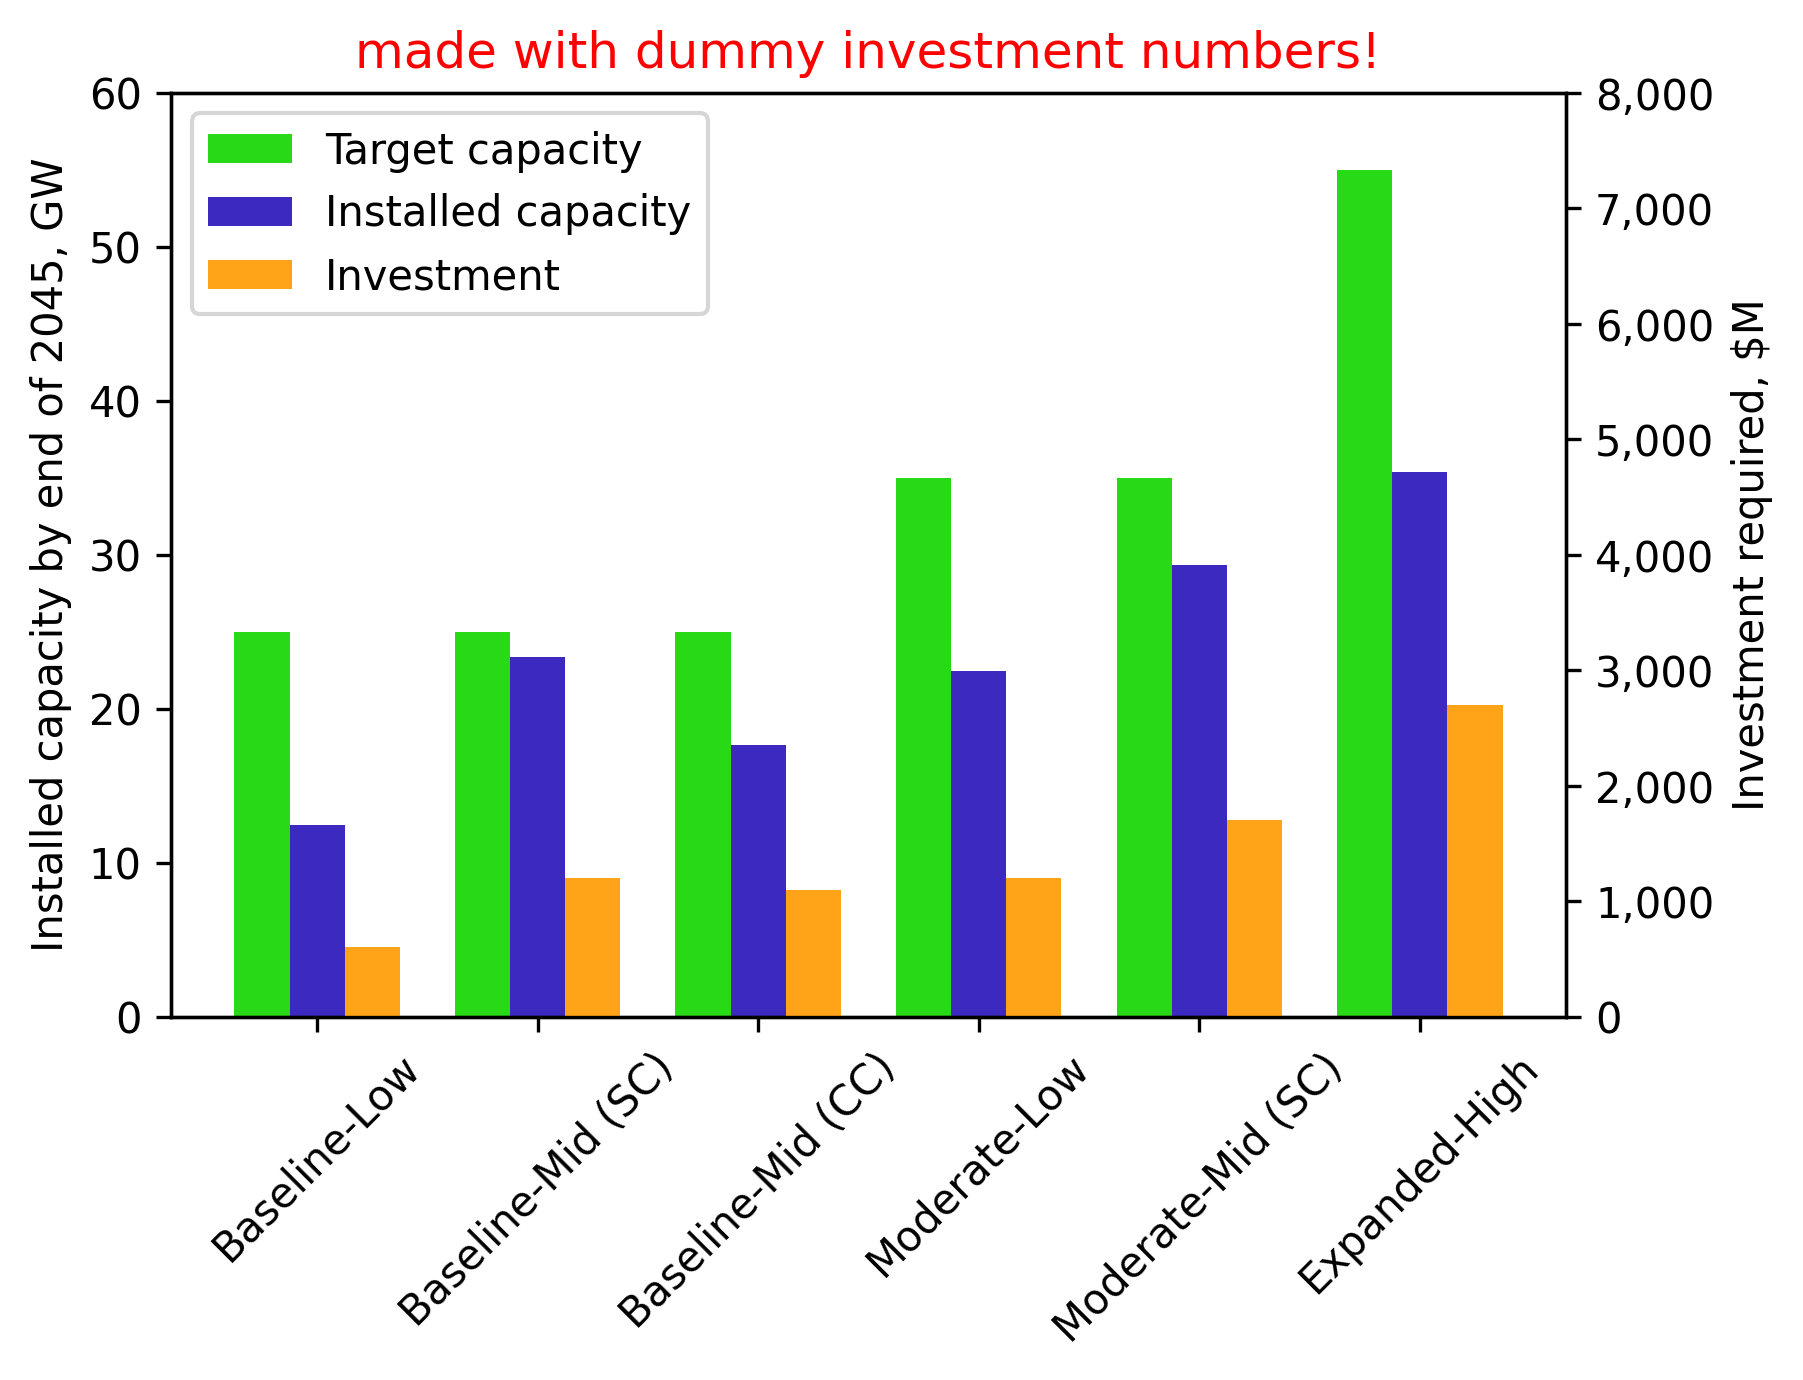
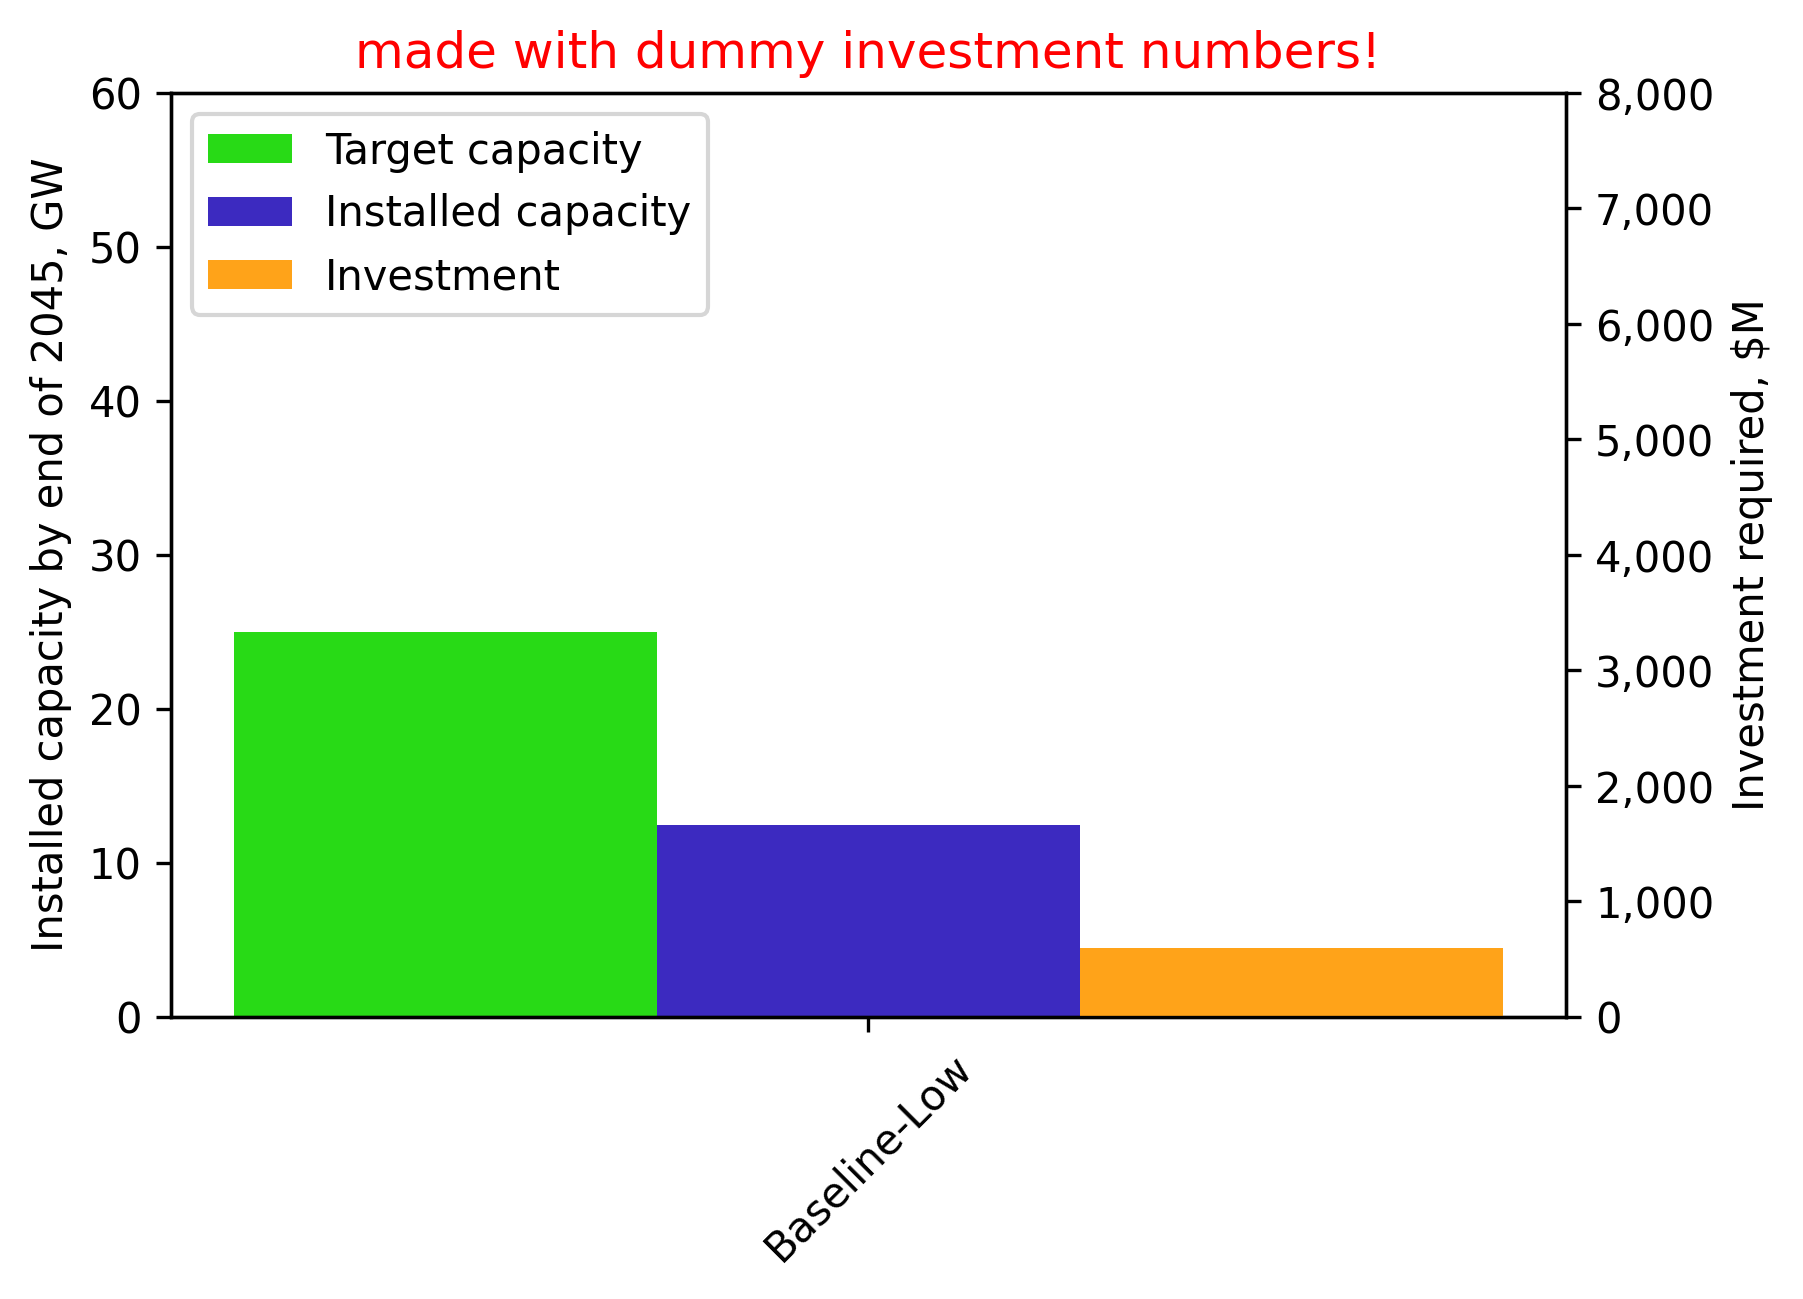
updated action logs output

diff --git a/analysis/main.py b/analysis/main.py
@@ -16,7 +16,7 @@ from plot_routines import plot_gantt, plot_throughput, plot_gantt_nt, assign_col
 # Configure scenarios and keep_inputs
 projects = "library/pipeline/wc-pipeline.xlsx"
 scenarios = ['Baseline-Low', 'Baseline-Mid (SC)', 'Baseline-Mid (CC)', 'Moderate-Low', 'Moderate-Mid (SC)', 'Expanded-High']
-#scenarios = ['Expanded-High']
+#scenarios = ['Baseline-Low']
 base = "base.yaml"
 library_path = "library"
 weather_path = "library/weather/humboldt_weather_2010_2018.csv"
@@ -72,10 +72,10 @@ if __name__ == '__main__':
         actions_df.to_csv(savedir + '/Actions/' + actions_filename)
 
         # Group action log by agent and action
-        actions_df = actions_df.groupby(['agent','action', 'phase', 'time']).sum(numeric_only=True)['duration']
+        agents_df = actions_df.groupby(['agent','action', 'phase', 'time']).sum(numeric_only=True)['duration']
 
         agents_filename = str(s) + '_agent_actions_sum.csv'
-        actions_df.to_csv(savedir + '/Actions/' + agents_filename)
+        agents_df.to_csv(savedir + '/Actions/' + agents_filename)
 
         # Plot and save results, assign ports to projects
         df = pd.DataFrame(manager.logs).iloc[::-1]
